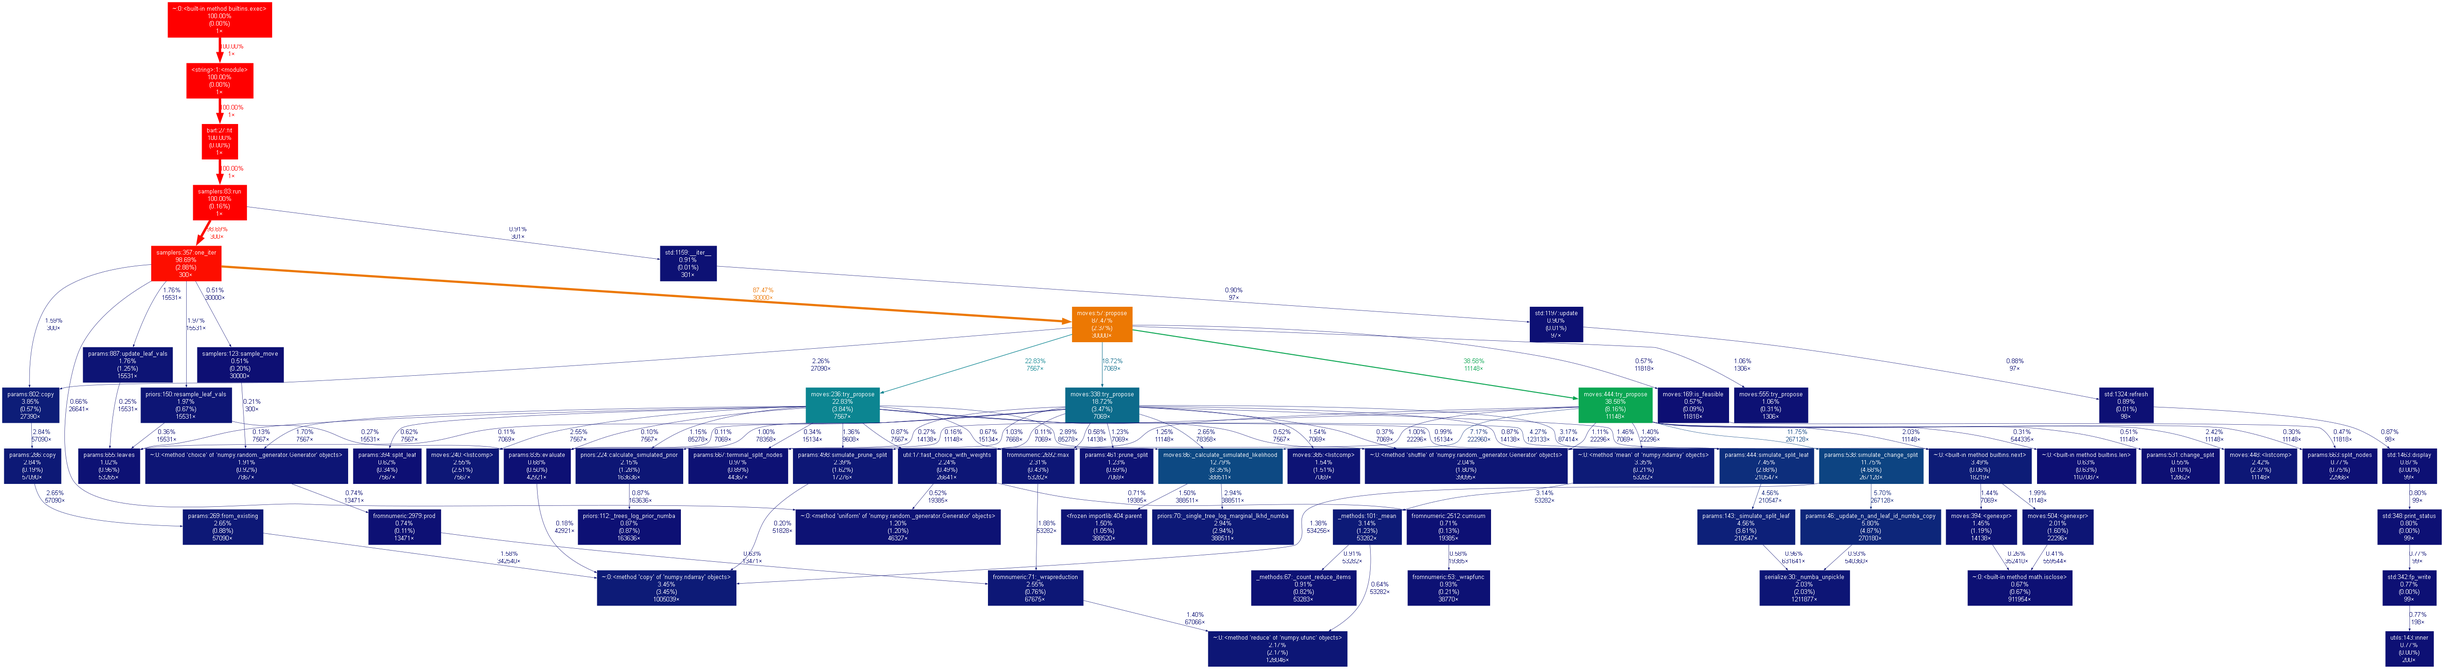
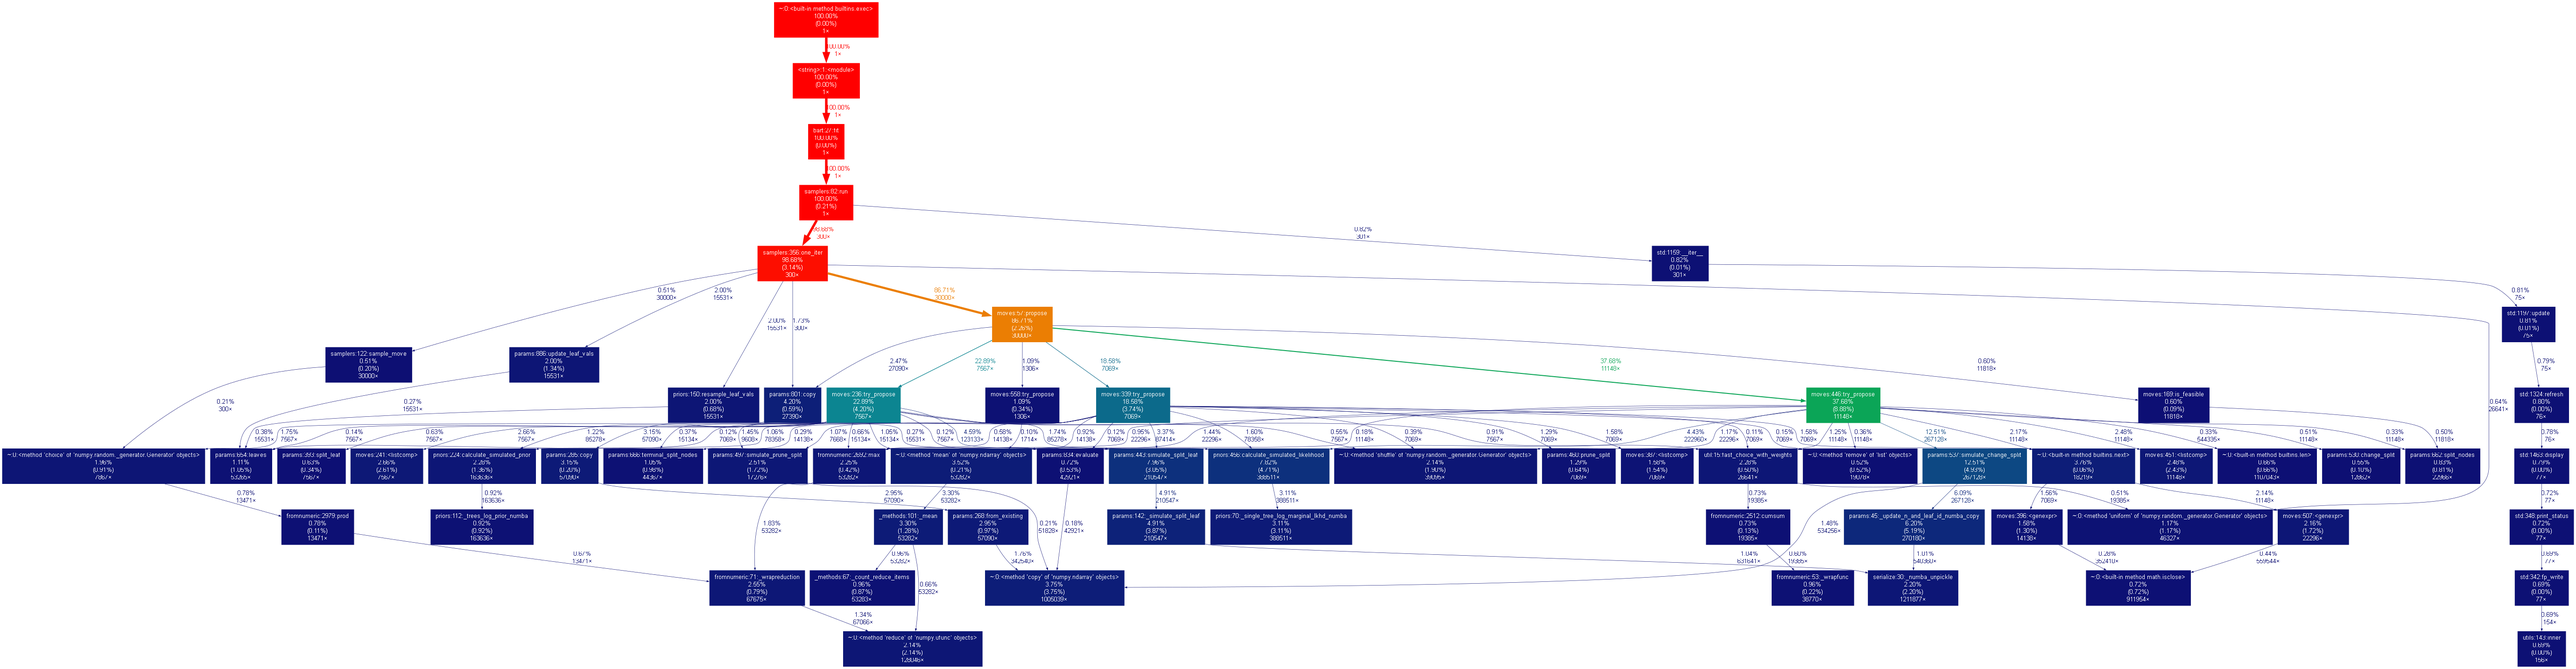
Apply to no-copy version

diff --git a/bart_playground/moves.py b/bart_playground/moves.py
@@ -236,6 +236,7 @@ class MultiGrow(Grow):
     def try_propose(self, proposed, generator):
         tree = proposed.trees[self.trees_changed[0]]
         residuals = self.data_y - proposed.evaluate(all_except=self.trees_changed)
+        eps_sigma2 = self.current.global_params["eps_sigma2"][0]
         n_samples = self.get_n_samples(tree)
         all_candidates = [
             (node_id, var, threshold)
@@ -258,8 +259,8 @@ class MultiGrow(Grow):
             right_child = node_id * 2 + 2
             if new_n[left_child] > 0 and new_n[right_child] > 0:
                 # Calculate likelihood using simulated data
-                log_likelihood = self._calculate_simulated_likelihood(
-                    new_leaf_ids, new_n, residuals
+                log_likelihood = self.likelihood.calculate_simulated_likelihood(
+                    new_leaf_ids, new_n, residuals, eps_sigma2=eps_sigma2
                 )
                 
                 # Calculate prior using simulated data
@@ -306,8 +307,8 @@ class MultiGrow(Grow):
             new_leaf_ids, new_n, new_vars = tree.simulate_prune_split(prune_node_id)
             
             # Calculate likelihood using simulated data
-            log_likelihood = self._calculate_simulated_likelihood(
-                new_leaf_ids, new_n, residuals
+            log_likelihood = self.likelihood.calculate_simulated_likelihood(
+                new_leaf_ids, new_n, residuals, eps_sigma2=eps_sigma2
             )
             
             # Calculate prior using simulated data
@@ -338,6 +339,7 @@ class MultiPrune(Prune):
     def try_propose(self, proposed, generator):
         tree = proposed.trees[self.trees_changed[0]]
         residuals = self.data_y - proposed.evaluate(all_except=self.trees_changed)
+        eps_sigma2 = self.current.global_params["eps_sigma2"][0]
         n_samples = self.get_n_samples(tree)
         all_candidates = list(tree.terminal_split_nodes)
         self.candidate_sampling_ratio = 1 # Just a placeholder, not used in MultiPrune because prune always succeeds
@@ -357,8 +359,8 @@ class MultiPrune(Prune):
             new_leaf_ids, new_n, new_vars = tree.simulate_prune_split(node_id)
             
             # Calculate likelihood using simulated data
-            log_likelihood = self._calculate_simulated_likelihood(
-                new_leaf_ids, new_n, residuals
+            log_likelihood = self.likelihood.calculate_simulated_likelihood(
+                new_leaf_ids, new_n, residuals, eps_sigma2=eps_sigma2
             )
             
             # Calculate prior using simulated data
@@ -413,8 +415,8 @@ class MultiPrune(Prune):
             right_child = leaf_id * 2 + 2
             if new_n[left_child] > 0 and new_n[right_child] > 0:
                 # Calculate likelihood using simulated data
-                log_likelihood = self._calculate_simulated_likelihood(
-                    new_leaf_ids, new_n, residuals
+                log_likelihood = self.likelihood.calculate_simulated_likelihood(
+                    new_leaf_ids, new_n, residuals, eps_sigma2=eps_sigma2
                 )
                 
                 # Calculate prior using simulated data
@@ -444,6 +446,7 @@ class MultiChange(Change):
     def try_propose(self, proposed, generator):
         tree = proposed.trees[self.trees_changed[0]]
         residuals = self.data_y - proposed.evaluate(all_except=self.trees_changed)
+        eps_sigma2 = self.current.global_params["eps_sigma2"][0]
         n_samples = self.get_n_samples(tree)
         all_candidates = [
             (node_id, var, threshold)
@@ -469,8 +472,8 @@ class MultiChange(Change):
             
             if valid:
                 # Calculate likelihood using simulated data
-                log_likelihood = self._calculate_simulated_likelihood(
-                    new_leaf_ids, new_n, residuals
+                log_likelihood = self.likelihood.calculate_simulated_likelihood(
+                    new_leaf_ids, new_n, residuals, eps_sigma2=eps_sigma2
                 )
                 
                 # Note: No prior calculation needed for change operations 
@@ -528,8 +531,8 @@ class MultiChange(Change):
             
             if valid:                
                 # Calculate likelihood using simulated data
-                log_likelihood = self._calculate_simulated_likelihood(
-                    new_leaf_ids, new_n, residuals
+                log_likelihood = self.likelihood.calculate_simulated_likelihood(
+                    new_leaf_ids, new_n, residuals, eps_sigma2=eps_sigma2
                 )
                 
                 log_pi = log_likelihood
@@ -555,6 +558,7 @@ class MultiSwap(Swap):
     def try_propose(self, proposed, generator):
         tree = proposed.trees[self.trees_changed[0]]
         residuals = self.data_y - proposed.evaluate(all_except=self.trees_changed)
+        eps_sigma2 = self.current.global_params["eps_sigma2"][0]
         all_candidates = [
             (parent_id, 2 * parent_id + lr)
             for parent_id in tree.nonterminal_split_nodes
@@ -579,8 +583,8 @@ class MultiSwap(Swap):
 
             if valid:
                 # Calculate likelihood using simulated data
-                log_likelihood = self._calculate_simulated_likelihood(
-                    new_leaf_ids, new_n, residuals
+                log_likelihood = self.likelihood.calculate_simulated_likelihood(
+                    new_leaf_ids, new_n, residuals, eps_sigma2=eps_sigma2
                 )
                 
                 # Note: No prior calculation needed for swap operations 
@@ -633,8 +637,8 @@ class MultiSwap(Swap):
 
             if valid:
                 # Calculate likelihood using simulated data
-                log_likelihood = self._calculate_simulated_likelihood(
-                    new_leaf_ids, new_n, residuals
+                log_likelihood = self.likelihood.calculate_simulated_likelihood(
+                    new_leaf_ids, new_n, residuals, eps_sigma2=eps_sigma2
                 )
                 
                 log_pi = log_likelihood

diff --git a/bart_playground/priors.py b/bart_playground/priors.py
@@ -453,6 +453,18 @@ class BARTLikelihood:
             log_lkhd_proposed = self.trees_log_marginal_lkhd(move.proposed, data_y, np.arange(move.current.n_trees))
         return log_lkhd_proposed - log_lkhd_current
 
+    def calculate_simulated_likelihood(self, new_leaf_ids, new_n, residuals, eps_sigma2):
+        """
+        Calculate likelihood using simulated split data without modifying the tree.
+        """
+        return _single_tree_log_marginal_lkhd_numba(
+            new_leaf_ids,
+            new_n, 
+            residuals,
+            eps_sigma2=eps_sigma2,
+            f_sigma2=self.f_sigma2
+        )
+
 class ComprehensivePrior:
     def __init__(self, n_trees=200, tree_alpha=0.95, tree_beta=2.0, f_k=2.0, eps_q=0.9, eps_nu=3.0, 
                  specification="linear", generator=np.random.default_rng(),

diff --git a/bart_playground/util.py b/bart_playground/util.py
@@ -1,6 +1,4 @@
 from abc import ABC, abstractmethod
-from re import U
-
 import numpy as np
 from numba import njit, objmode, f8
 from scipy.special import kv

diff --git a/bart_playground/params.py b/bart_playground/params.py
@@ -1,4 +1,3 @@
-from calendar import c
 import numpy as np
 from typing import Optional
 from numpy.typing import NDArray

diff --git a/bart_playground/samplers.py b/bart_playground/samplers.py
@@ -1,4 +1,3 @@
-
 import numpy as np
 from tqdm import tqdm
 from abc import ABC, abstractmethod
